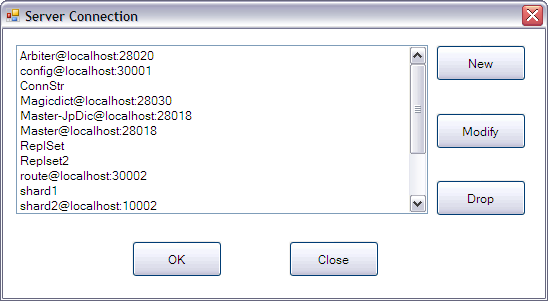
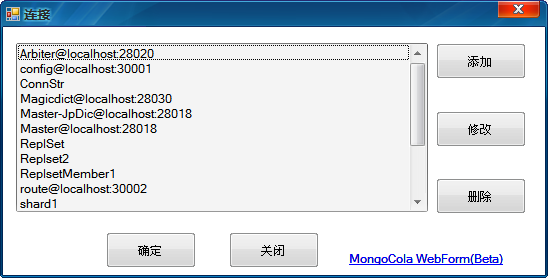
MongoCola-1.21

Changed region(s): [[0.0, 0.0, 1.0, 1.0]]

diff --git a/MagicMongoDBTool/UserGuide/index.htm b/MagicMongoDBTool/UserGuide/index.htm
@@ -102,6 +102,7 @@
                         <li>C# Offical Driver(1.4.1) if you download the executable file(RAR or ZIP package)
                             contains the driver DLL,you don't need to download it again.</li>
                         <li>Linux User:<font Color="red">apttitude install libmono-windowsbase3.0-cil</font>(Thanks to Voltron for test Mono on ubuntu.)</li>
+                        <li>zTree Jquery-Plugin,Jquery(Rar or Zip Package contains)</li>
                     </ul>
                 </font>
             </td>
@@ -114,9 +115,12 @@
         <tr>
             <td />
             <td>
-                <font size="3" color="black">Thanks MoLing for help me correct this document.
-                    <br />
-                    Last Editor：2012-03-31<br />
+                <font size="3" color="black">
+                  Thanks MoLing for help me correct this document.<br />
+                  Thanks zTree Jquery Plugin http://www.baby666.cn/v3/main.php#_zTreeInfo<br />
+                  Thanks 10gen for C# Driver <br />
+                  Thanks friends @ www.Cnblogs.com for advice,test,supports <br />
+                  Last Editor：2012-04-08<br />
                     <br />
                 </font>
             </td>
@@ -143,11 +147,18 @@ MongoCola is free and open source.
 ========================================================================
 Release History
 ========================================================================
-Ver 1.21 2012/04/06 [First Version @Accenture CDC]
+Ver 1.21 2012/04/08 [First Version @Accenture CDC]
+WebForm
+    1.You can select a connection at connection list page to jump to connection detail page.
+    2.Show Connection Status when click the connection node.
+    3.Show Database Status when click the database node.
+    4.Show Collection records when click the collection node.
+    
 Main form:
     1.Display server role before connection name at node text.
-    2. 
+    
 ========================================================================
+
 ========================================================================
 Ver 1.20 2012/03/31 [Last Version @IBM GDC]
 C# Driver:
@@ -404,13 +415,38 @@ This is the first release of MongoCola.
             </td>
         </tr>
         <tr>
+          <td align="center">
+            <br />
+            <font size="3" color="black">
+              <b>Try WebForm</b>
+            </font>
+           </td>
+           <td />
+         </tr>
+        <tr>
+          <td />
+          <td>
+            <font size="3">
+              Click "MongoCola Web Form",then you can try the use MongoCola at your browser.
+            <br />
+            <img src="images/ConnectionManager_WebForm.PNG" alt="" />
+            <br />
+              Click a connection , jump to the connection detail page.<br />
+              At connection detail page,you can click connection node and database node to see the status,or click the collection node to see records in the collection.<br />
+              <br />
+              <img src="images/Main_WebForm.PNG" alt="" />
+              <br />
+            </font>
+          </td>
+        </tr>
+        <tr>
             <td align="center">
                 <br />
                 <font size="3" color="black"><b>Master-Slave</b></font>
             </td>
             <td />
         </tr>
-        <tr>
+          <tr>
             <td />
             <td>
                 <font size="3">This application support to manage a Master-Slave server.

diff --git a/MagicMongoDBTool/Form/frmConnect.Designer.cs b/MagicMongoDBTool/Form/frmConnect.Designer.cs
@@ -34,8 +34,8 @@
             this.cmdClose = new System.Windows.Forms.Button();
             this.cmdOK = new System.Windows.Forms.Button();
             this.lstServerce = new System.Windows.Forms.ListBox();
-            this.lnkTryBrowse = new System.Windows.Forms.LinkLabel();
             this.txtInfo = new System.Windows.Forms.TextBox();
+            this.lnkWebFormEntry = new System.Windows.Forms.LinkLabel();
             this.SuspendLayout();
             // 
             // cmdModifyCon
@@ -102,18 +102,6 @@
             this.lstServerce.SelectionMode = System.Windows.Forms.SelectionMode.MultiSimple;
             this.lstServerce.Size = new System.Drawing.Size(412, 169);
             this.lstServerce.TabIndex = 5;
-            this.lstServerce.MouseDoubleClick += new System.Windows.Forms.MouseEventHandler(this.cmdConnect_Click);
-            // 
-            // lnkTryBrowse
-            // 
-            this.lnkTryBrowse.AutoSize = true;
-            this.lnkTryBrowse.Location = new System.Drawing.Point(343, 223);
-            this.lnkTryBrowse.Name = "lnkTryBrowse";
-            this.lnkTryBrowse.Size = new System.Drawing.Size(187, 15);
-            this.lnkTryBrowse.TabIndex = 11;
-            this.lnkTryBrowse.TabStop = true;
-            this.lnkTryBrowse.Text = "Try MongoCola By Browser(Beta)";
-            this.lnkTryBrowse.LinkClicked += new System.Windows.Forms.LinkLabelLinkClickedEventHandler(this.lnkTryBrowse_LinkClicked);
             // 
             // txtInfo
             // 
@@ -123,13 +111,24 @@
             this.txtInfo.Size = new System.Drawing.Size(508, 153);
             this.txtInfo.TabIndex = 12;
             // 
+            // lnkWebFormEntry
+            // 
+            this.lnkWebFormEntry.AutoSize = true;
+            this.lnkWebFormEntry.Location = new System.Drawing.Point(343, 223);
+            this.lnkWebFormEntry.Name = "lnkWebFormEntry";
+            this.lnkWebFormEntry.Size = new System.Drawing.Size(161, 15);
+            this.lnkWebFormEntry.TabIndex = 11;
+            this.lnkWebFormEntry.TabStop = true;
+            this.lnkWebFormEntry.Text = "MongoCola WebForm(Beta)";
+            this.lnkWebFormEntry.LinkClicked += new System.Windows.Forms.LinkLabelLinkClickedEventHandler(this.lnkWebFormEntry_LinkClicked);
+            // 
             // frmConnect
             // 
             this.AutoScaleDimensions = new System.Drawing.SizeF(7F, 15F);
             this.AutoScaleMode = System.Windows.Forms.AutoScaleMode.Font;
             this.ClientSize = new System.Drawing.Size(542, 248);
             this.Controls.Add(this.txtInfo);
-            this.Controls.Add(this.lnkTryBrowse);
+            this.Controls.Add(this.lnkWebFormEntry);
             this.Controls.Add(this.cmdModifyCon);
             this.Controls.Add(this.cmdDelCon);
             this.Controls.Add(this.cmdAddCon);
@@ -157,7 +156,7 @@
         private System.Windows.Forms.Button cmdClose;
         private System.Windows.Forms.Button cmdOK;
         private System.Windows.Forms.ListBox lstServerce;
-        private System.Windows.Forms.LinkLabel lnkTryBrowse;
         private System.Windows.Forms.TextBox txtInfo;
+        private System.Windows.Forms.LinkLabel lnkWebFormEntry;
     }
 }

diff --git a/MagicMongoDBTool/Form/frmConnect.cs b/MagicMongoDBTool/Form/frmConnect.cs
@@ -143,7 +143,7 @@ namespace MagicMongoDBTool
         /// </summary>
         /// <param name="sender"></param>
         /// <param name="e"></param>
-        private void lnkTryBrowse_LinkClicked(object sender, System.Windows.Forms.LinkLabelLinkClickedEventArgs e)
+        private void lnkWebFormEntry_LinkClicked(object sender, System.Windows.Forms.LinkLabelLinkClickedEventArgs e)
         {
             this.Height = 500;
             HTTP.HTTPServer.ServerPath = Application.StartupPath + "\\HTML";
